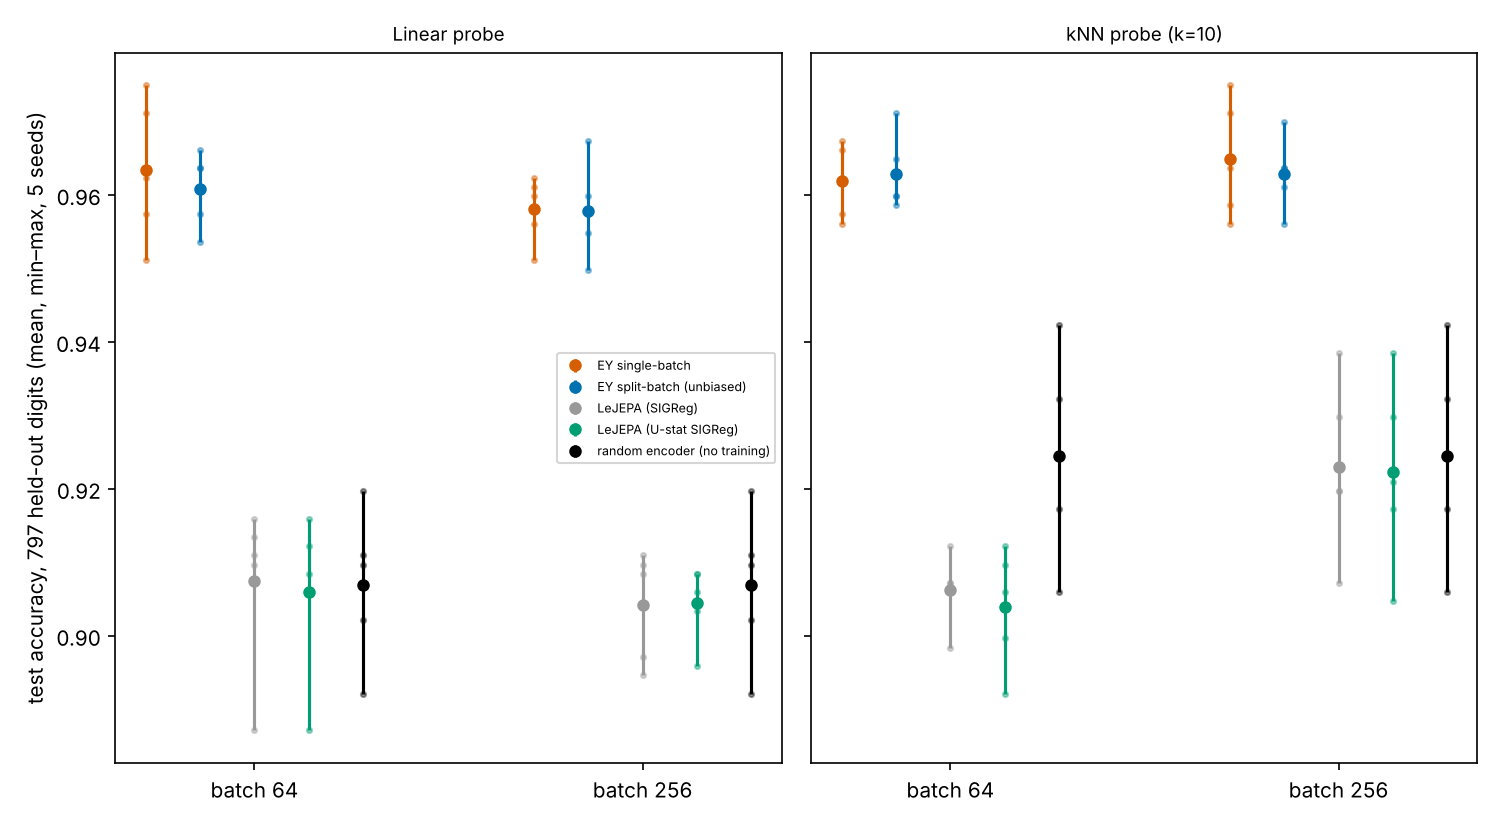
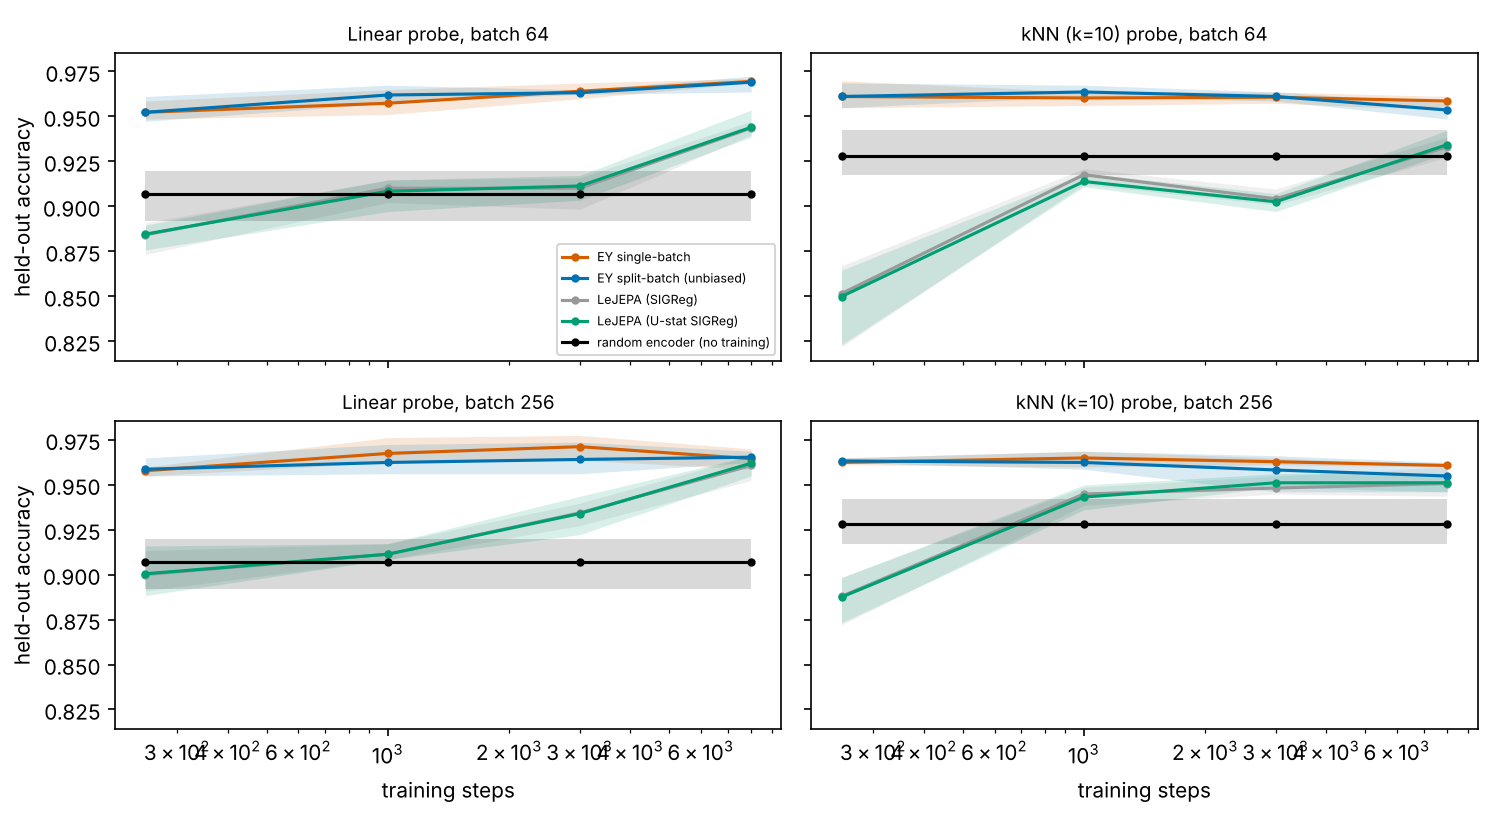
research: digits SSL results with convergence checkpoints
Claude-Session: https://claude.ai/code/session_014BvubJiEzpBEWCnhN9N91H

diff --git a/research/identifiable_ey/notes/digits_ssl.md b/research/identifiable_ey/notes/digits_ssl.md
@@ -1,0 +1,16 @@
+# Nonlinear encoders on real data: sklearn digits (`scripts/digits_ssl.py`, figure `figures/digits_ssl.png`)
+
+Shared MLP encoder (64-256-256-32), two augmented views (±1 pixel shift, noise, 20% pixel dropout), 1000 train / 797 held-out digits, Adam lr 1e-3, batch 64 and 256, 3 seeds (500–502). Probes on un-augmented embeddings, scored at 250/1000/3000/8000 steps. Untrained-encoder reference: linear 0.907, kNN 0.928.
+
+## A mistake caught on the way
+The first run trained `150 epochs x (1000 // batch)` = 450 steps at batch 256, and showed EY ~0.96 vs LeJEPA ~0.90 (no better than untrained). A logged run showed LeJEPA starting from tiny embeddings (std 0.02, SIGReg 105), dipping (kNN 0.82, effective rank 3.5 at step 100) and still improving at step 1600 (0.945). That comparison measured convergence speed; λ in {0.01..0.8} made no difference. The script now scores several step counts.
+
+## Results (mean of 3 seeds, linear / kNN at 8000 steps)
+- Batch 256: EY single 0.964 / 0.961, EY split 0.965 / 0.955, LeJEPA (V) 0.961 / 0.951, LeJEPA (U) 0.962 / 0.951.
+- Batch 64: EY single 0.969 / 0.959, EY split 0.969 / 0.954, LeJEPA (V) 0.944 / 0.933, LeJEPA (U) 0.944 / 0.934.
+- EY is within 1 point of its final accuracy by 250 steps; LeJEPA needs 3000–8000 and, at batch 64, has not caught up by 8000.
+- Unbiased (split) EY and U-stat SIGReg match their biased versions at every checkpoint (differences ≤ 0.006).
+
+## What this supports, and what it does not
+Supported (tiny dataset, 3 seeds): EY is much faster to converge than LeJEPA here, and ends equal or ahead, by ~0–2.5 points depending on batch and probe. Unbiasedness is irrelevant to accuracy here too.
+Not supported: any claim about images at scale, or that the ordering holds with tuned learning rates, a projector head, or SIGReg-friendly initialisation (the slow start might be a scale-initialisation effect). The kNN theorem LeJEPA relies on is not shown to matter or not.
